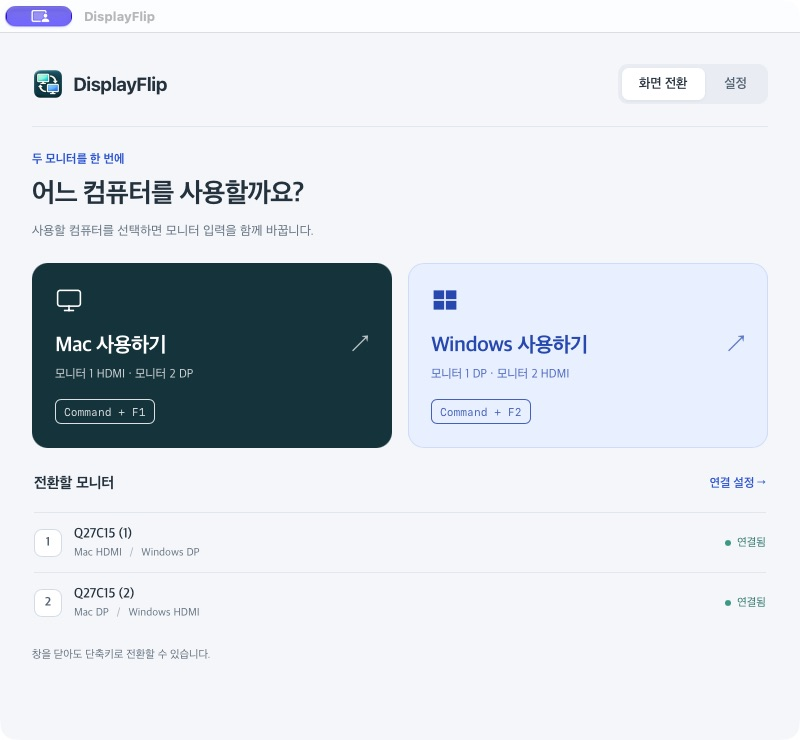
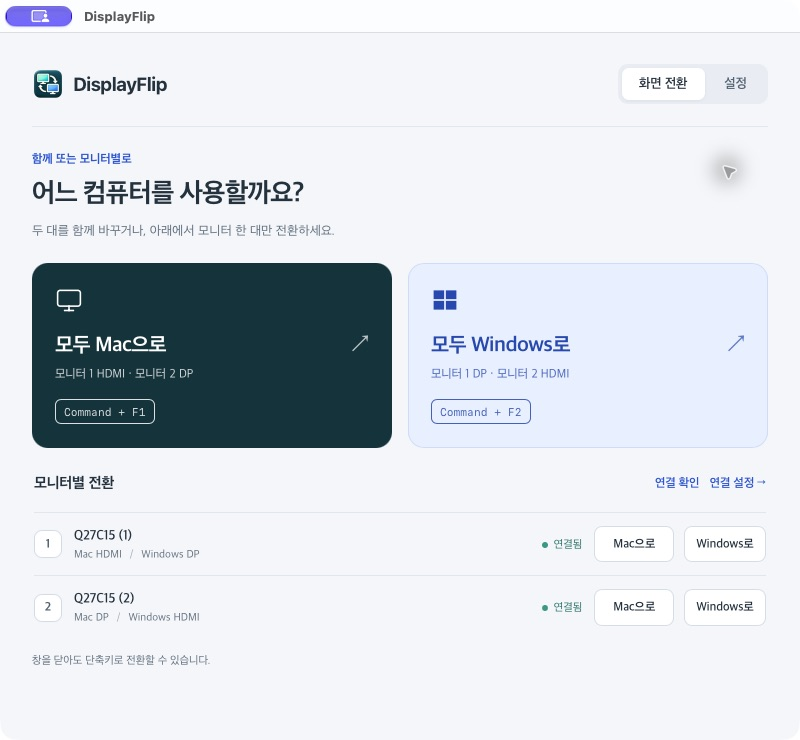
연결된 모니터를 한 대씩 Mac과 Windows로 전환한다

diff --git a/src/App.tsx b/src/App.tsx
@@ -83,6 +83,9 @@ function savedCode(value: number | null): string {
 function App() {
   const [page, setPage] = useState<"switch" | "settings">("switch");
   const [switching, setSwitching] = useState<Destination | null>(null);
+  const [switchingMonitor, setSwitchingMonitor] = useState<MonitorIndex | null>(null);
+  const switchInFlight = useRef(false);
+  const monitorRefreshInFlight = useRef(false);
   const [saving, setSaving] = useState(0);
   const [settings, setSettings] = useState<Settings | null>(null);
   const [appliedSettings, setAppliedSettings] = useState<Settings | null>(null);
@@ -112,16 +115,19 @@ function App() {
     }
   }
 
-  async function refreshMonitors() {
+  async function refreshMonitors(announce = true) {
+    if (monitorRefreshInFlight.current) return;
+    monitorRefreshInFlight.current = true;
     setRefreshingMonitors(true);
     try {
       const detected = await invoke<DetectedMonitor[]>("list_monitors");
       setMonitors(detected);
-      setNotice(detected.length ? `모니터 ${detected.length}대를 찾았습니다.` : "연결된 외부 모니터가 없습니다.");
+      if (announce) setNotice(detected.length ? `모니터 ${detected.length}대를 찾았습니다.` : "연결된 외부 모니터가 없습니다.");
     } catch (error) {
-      setNotice(String(error));
+      if (announce) setNotice(String(error));
     } finally {
       setRefreshingMonitors(false);
+      monitorRefreshInFlight.current = false;
     }
   }
 
@@ -176,15 +182,17 @@ function App() {
     const pauseCapture = () => { void captureShortcuts(false); };
     const resumeCapture = () => {
       if (document.activeElement?.matches("[data-shortcut-input]")) void captureShortcuts(true);
+      void refreshMonitors(false);
     };
     window.addEventListener("blur", pauseCapture);
     window.addEventListener("focus", resumeCapture);
     void invoke<Settings>("get_settings").then((loaded) => { setSettings(loaded); setAppliedSettings(loaded); }).catch((error: unknown) => {
       setNotice(String(error));
     });
-    void invoke<DetectedMonitor[]>("list_monitors").then(setMonitors).catch((error: unknown) => {
-      setNotice(String(error));
-    });
+    void refreshMonitors(false);
+    const monitorTimer = window.setInterval(() => {
+      if (document.visibilityState === "visible" && !switchInFlight.current) void refreshMonitors(false);
+    }, 10000);
     void invoke<string | null>("shortcut_status").then((error) => {
       if (error) setNotice(error);
     });
@@ -195,6 +203,7 @@ function App() {
     return () => {
       window.removeEventListener("blur", pauseCapture);
       window.removeEventListener("focus", resumeCapture);
+      window.clearInterval(monitorTimer);
       void invoke("set_shortcut_capture", { capturing: false }).catch(() => {});
       void unlisten.then((stop) => stop());
     };
@@ -209,16 +218,23 @@ function App() {
     );
   }
 
-  async function switchTo(destination: Destination) {
-    if (switching) return;
+  async function switchTo(destination: Destination, monitor?: MonitorIndex) {
+    if (switchInFlight.current) return;
+    switchInFlight.current = true;
     setSwitching(destination);
+    setSwitchingMonitor(monitor ?? null);
     try {
-      const outcomes = await invoke<Outcome[]>("switch_to", { destination });
+      const outcomes = monitor
+        ? [await invoke<Outcome>("switch_monitor", { destination, monitor: Number(monitor) })]
+        : await invoke<Outcome[]>("switch_to", { destination });
       setNotice(outcomes.map(outcomeText).join("\n"));
     } catch (error) {
       setNotice(String(error));
     } finally {
       setSwitching(null);
+      setSwitchingMonitor(null);
+      switchInFlight.current = false;
+      void refreshMonitors(false);
     }
   }
 
@@ -263,11 +279,12 @@ function App() {
     }
   }
 
-  const destinationReady = (destination: Destination) => (["1", "2"] as const).every((index) => {
+  const monitorReady = (index: MonitorIndex, destination: Destination) => {
     const monitor = role(index);
     const usesHdmi = destination === "mac" ? index === "1" : index === "2";
     return monitor.id && (usesHdmi ? monitor.hdmiCode : monitor.dpCode) !== null && monitors.some((item) => item.id === monitor.id);
-  }) && role("1").id !== role("2").id;
+  };
+  const destinationReady = (destination: Destination) => (["1", "2"] as const).every((index) => monitorReady(index, destination)) && role("1").id !== role("2").id;
   const configured = destinationReady("mac") && destinationReady("windows");
   const monitorName = (index: MonitorIndex) => monitors.find((monitor) => monitor.id === role(index).id)?.name ?? "모니터를 선택해주세요";
   const shortcutLabel = formatShortcut;
@@ -286,24 +303,27 @@ function App() {
       {notice && <div className={`notice ${/실패|못했|못합니다|정수여야|동일|서로 다른/.test(notice) ? "notice-warning" : ""}`} role="status" aria-live="polite"><span className="notice-label">알림</span><p>{notice}</p><button type="button" className="notice-close" aria-label="알림 닫기" onClick={() => setNotice("")}>×</button></div>}
 
       {page === "switch" ? <>
-        <div className="page-heading"><p className="eyebrow">두 모니터를 한 번에</p><h1>어느 컴퓨터를 사용할까요?</h1><p>사용할 컴퓨터를 선택하면 모니터 입력을 함께 바꿉니다.</p></div>
-        {!configured && <div className="setup-prompt"><span>아직 준비되지 않은 연결이 있습니다. 모니터와 각 컴퓨터의 입력을 확인해주세요.</span><button type="button" onClick={() => setPage("settings")}>모니터 설정하기 <span aria-hidden="true">→</span></button></div>}
+        <div className="page-heading"><p className="eyebrow">함께 또는 모니터별로</p><h1>어느 컴퓨터를 사용할까요?</h1><p>두 대를 함께 바꾸거나, 아래에서 모니터 한 대만 전환하세요.</p></div>
+        {!configured && <div className="setup-prompt"><span>두 대를 함께 전환하려면 연결 설정을 확인해주세요. 준비된 모니터는 아래에서 개별 전환할 수 있습니다.</span><button type="button" onClick={() => setPage("settings")}>모니터 설정하기 <span aria-hidden="true">→</span></button></div>}
         <div className="switch-grid">
           {(["mac", "windows"] as const).map((destination) => <button
             className={`switch-card ${destination}`} type="button" key={destination}
-            disabled={!destinationReady(destination) || switching !== null} aria-busy={switching === destination}
+            disabled={!destinationReady(destination) || switching !== null} aria-busy={switching === destination && switchingMonitor === null}
             onClick={() => void switchTo(destination)}>
             <span className="computer-mark">{destination === "mac" ? <MonitorIcon /> : <WindowsIcon />}</span>
-            <span className="switch-card-title">{switching === destination ? "전환 요청 중…" : destination === "mac" ? "Mac 사용하기" : "Windows 사용하기"}<span aria-hidden="true">↗</span></span>
+            <span className="switch-card-title">{switching === destination && switchingMonitor === null ? "전환 요청 중…" : destination === "mac" ? "모두 Mac으로" : "모두 Windows로"}<span aria-hidden="true">↗</span></span>
             <span className="switch-card-detail">모니터 1 {destination === "mac" ? "HDMI" : "DP"}<span aria-hidden="true"> · </span>모니터 2 {destination === "mac" ? "DP" : "HDMI"}</span>
             <span className="shortcut-badge" aria-label={`단축키 ${shortcutLabel(destination === "mac" ? displayedHotkeys.toMac : displayedHotkeys.toWindows)}`}>{shortcutLabel(destination === "mac" ? displayedHotkeys.toMac : displayedHotkeys.toWindows)}</span>
           </button>)}
         </div>
         <section className="monitor-overview" aria-labelledby="monitor-overview-title">
-          <div className="section-heading"><h2 id="monitor-overview-title">전환할 모니터</h2><button className="text-button" type="button" onClick={() => setPage("settings")}>연결 설정 <span aria-hidden="true">→</span></button></div>
+          <div className="section-heading"><h2 id="monitor-overview-title">모니터별 전환</h2><div className="overview-tools"><button className="text-button" type="button" disabled={refreshingMonitors} onClick={() => void refreshMonitors()}>{refreshingMonitors ? "확인 중…" : "연결 확인"}</button><button className="text-button" type="button" onClick={() => setPage("settings")}>연결 설정 <span aria-hidden="true">→</span></button></div></div>
           {(["1", "2"] as const).map((index) => <div className="monitor-summary" key={index}>
-            <span className="monitor-number">{index}</span><div><strong>{role(index).id ? monitorName(index) : "모니터를 선택해주세요"}</strong><span className="monitor-route">Mac {index === "1" ? "HDMI" : "DP"} <span aria-hidden="true">/</span> Windows {index === "1" ? "DP" : "HDMI"}</span></div>
+            <span className="monitor-number">{index}</span><div className="monitor-identity"><strong>{role(index).id ? monitorName(index) : "모니터를 선택해주세요"}</strong><span className="monitor-route">Mac {index === "1" ? "HDMI" : "DP"} <span aria-hidden="true">/</span> Windows {index === "1" ? "DP" : "HDMI"}</span></div>
             <span className={`connection-state ${monitors.some((monitor) => monitor.id === role(index).id) ? "connected" : ""}`}>{!role(index).id ? "설정 필요" : monitors.some((monitor) => monitor.id === role(index).id) ? "연결됨" : "연결 확인 필요"}</span>
+            <div className="individual-actions" role="group" aria-label={`모니터 ${index} 전환`}>
+              {(["mac", "windows"] as const).map((destination) => <button className="secondary-button" type="button" key={destination} disabled={!monitorReady(index, destination) || switching !== null} aria-busy={switchingMonitor === index && switching === destination} aria-label={`모니터 ${index} ${destination === "mac" ? "Mac" : "Windows"}으로 전환`} onClick={() => void switchTo(destination, index)}>{switchingMonitor === index && switching === destination ? "전환 중…" : destination === "mac" ? "Mac으로" : "Windows로"}</button>)}
+            </div>
           </div>)}
         </section>
         <p className="quiet-help">창을 닫아도 단축키로 전환할 수 있습니다.</p>

diff --git a/src/styles.css b/src/styles.css
@@ -46,6 +46,16 @@ h2 { font-size: 15px; font-weight: 650; margin: 0; letter-spacing: -.2px; }
 .text-button { border: 0; background: transparent; color: var(--accent); padding: 6px 0; font-size: 12px; font-weight: 550; }
 .text-button:not(:disabled):hover { color: #143d97; text-decoration: underline; }
 .monitor-summary { display: flex; align-items: center; gap: 12px; padding: 13px 0; border-top: 1px solid var(--line); }
+.monitor-identity { min-width: 0; flex: 1; overflow-wrap: anywhere; }
+.overview-tools, .individual-actions { display: flex; gap: 10px; align-items: center; }
+.individual-actions { flex-shrink: 0; }
+.individual-actions .secondary-button { padding: 9px 11px; min-width: 80px; font-size: 12px; }
+@media (max-width: 620px) {
+  .monitor-summary { flex-wrap: wrap; }
+  .individual-actions { flex-basis: calc(100% - 40px); margin-left: 40px; }
+  .individual-actions .secondary-button { flex: 1; }
+  .section-heading { flex-wrap: wrap; }
+}
 .monitor-number { display: inline-flex; flex-shrink: 0; align-items: center; justify-content: center; width: 28px; height: 28px; border: 1px solid #d3dce6; color: #526373; background: #fff; border-radius: 8px; font-size: 12px; font-weight: 650; }
 .monitor-summary strong { display: block; font-size: 13px; font-weight: 600; }
 .monitor-route { display: block; color: var(--muted); font-size: 11px; margin-top: 4px; }

diff --git a/src-tauri/src/domain.rs b/src-tauri/src/domain.rs
@@ -76,6 +76,7 @@ impl MissingItem {
 pub enum PlanError {
     Incomplete { missing: Vec<MissingItem> },
     SameMonitor,
+    InvalidMonitor,
     Busy,
 }
 
@@ -87,6 +88,7 @@ impl std::fmt::Display for PlanError {
                 write!(f, "설정이 완료되지 않았습니다: {}", labels.join(", "))
             }
             PlanError::SameMonitor => write!(f, "모니터 1과 모니터 2는 서로 다른 모니터여야 합니다."),
+            PlanError::InvalidMonitor => write!(f, "모니터 번호는 1 또는 2여야 합니다."),
             PlanError::Busy => write!(f, "이미 전환 중입니다."),
         }
     }
@@ -212,6 +214,39 @@ pub struct SwitchGate {
 }
 
 impl SwitchGate {
+    pub fn run_monitor<C: MonitorControl + ?Sized>(
+        &mut self,
+        control: &mut C,
+        settings: &Settings,
+        destination: Destination,
+        index: u8,
+        connected_ids: &[String],
+    ) -> Result<MonitorOutcome, PlanError> {
+        if self.busy {
+            return Err(PlanError::Busy);
+        }
+        let (selected, monitor_missing, disconnected) = match index {
+            1 => (&settings.monitors.monitor1, MissingItem::Monitor1, MissingItem::Monitor1Disconnected),
+            2 => (&settings.monitors.monitor2, MissingItem::Monitor2, MissingItem::Monitor2Disconnected),
+            _ => return Err(PlanError::InvalidMonitor),
+        };
+        let selected = selected.as_ref().filter(|monitor| !monitor.id.is_empty())
+            .ok_or_else(|| PlanError::Incomplete { missing: vec![monitor_missing] })?;
+        let mut missing = Vec::new();
+        let code = code_for(selected, destination, index, &mut missing);
+        if !connected_ids.contains(&selected.id) {
+            missing.push(disconnected);
+        }
+        if !missing.is_empty() {
+            return Err(PlanError::Incomplete { missing });
+        }
+        self.busy = true;
+        let guard = BusyGuard(&mut self.busy);
+        let outcome = execute(control, index, &selected.id, code.unwrap());
+        drop(guard);
+        Ok(outcome)
+    }
+
     pub fn run<C: MonitorControl + ?Sized>(
         &mut self,
         control: &mut C,
@@ -461,6 +496,52 @@ mod tests {
         let outcome = gate.trial(&mut fake, "mon-1", 17).unwrap();
         assert_eq!(outcome.role, 0);
         assert!(matches!(outcome.delivery, Delivery::Delivered));
+    }
+
+    #[test]
+    fn individual_switch_only_writes_selected_monitor_without_other_configuration() {
+        let mut settings = ready();
+        settings.monitors.monitor1 = None;
+        settings.monitors.monitor2.as_mut().unwrap().dp_code = None;
+        let mut gate = SwitchGate::default();
+        let mut fake = Fake { fail_set: false, read: ReadMode::Fail, sets: Vec::new() };
+        let outcome = gate.run_monitor(&mut fake, &settings, Destination::Windows, 2, &["mon-2".into()]).unwrap();
+        assert_eq!(fake.sets, vec![("mon-2".into(), 17)]);
+        assert_eq!(outcome.role, 2);
+        assert!(matches!(outcome.delivery, Delivery::Unconfirmed));
+        assert!(!gate.busy);
+    }
+
+    #[test]
+    fn individual_switch_uses_each_monitors_destination_port() {
+        for (index, destination, expected) in [(1, Destination::Mac, 17), (1, Destination::Windows, 15), (2, Destination::Mac, 15), (2, Destination::Windows, 17)] {
+            let mut gate = SwitchGate::default();
+            let mut fake = Fake { fail_set: false, read: ReadMode::Fail, sets: Vec::new() };
+            gate.run_monitor(&mut fake, &ready(), destination, index, &["mon-1".into(), "mon-2".into()]).unwrap();
+            assert_eq!(fake.sets, vec![(format!("mon-{index}"), expected)]);
+        }
+    }
+
+    #[test]
+    fn individual_switch_rejects_missing_disconnected_and_invalid_targets_before_writing() {
+        let mut no_code = ready();
+        no_code.monitors.monitor1.as_mut().unwrap().hdmi_code = None;
+        let mut no_monitor = ready();
+        no_monitor.monitors.monitor1 = None;
+        for (settings, index, connected) in [(no_code, 1, vec!["mon-1".into()]), (no_monitor, 1, vec!["mon-1".into()]), (ready(), 1, vec!["mon-2".into()]), (ready(), 3, vec!["mon-1".into()])] {
+            let mut gate = SwitchGate::default();
+            let mut fake = Fake { fail_set: false, read: ReadMode::Match, sets: Vec::new() };
+            assert!(gate.run_monitor(&mut fake, &settings, Destination::Mac, index, &connected).is_err());
+            assert!(fake.sets.is_empty());
+        }
+    }
+
+    #[test]
+    fn individual_switch_shares_busy_guard_with_all_monitor_switches() {
+        let mut gate = SwitchGate { busy: true };
+        let mut fake = Fake { fail_set: false, read: ReadMode::Match, sets: Vec::new() };
+        assert!(matches!(gate.run_monitor(&mut fake, &ready(), Destination::Mac, 1, &["mon-1".into()]), Err(PlanError::Busy)));
+        assert!(fake.sets.is_empty());
     }
 
     #[test]

diff --git a/src-tauri/src/lib.rs b/src-tauri/src/lib.rs
@@ -95,6 +95,16 @@ fn switch_to(state: tauri::State<AppState>, destination: domain::Destination) ->
 }
 
 #[tauri::command]
+fn switch_monitor(state: tauri::State<AppState>, destination: domain::Destination, monitor: u8) -> Result<domain::MonitorOutcome, String> {
+    let mut gate = state.gate.try_lock().map_err(|_| domain::PlanError::Busy.to_string())?;
+    let path = require_settings_path(&state.settings_path)?;
+    let settings = settings::load_settings(path)?;
+    let mut control = control::open_control();
+    let connected = control.list_monitors()?.into_iter().map(|item| item.id).collect::<Vec<_>>();
+    gate.run_monitor(&mut *control, &settings, destination, monitor, &connected).map_err(|err| err.to_string())
+}
+
+#[tauri::command]
 fn shortcut_status(state: tauri::State<AppState>) -> Option<String> {
     stored_notice(state.inner())
 }
@@ -468,6 +478,7 @@ pub fn run() {
             read_input,
             trial_set_input,
             switch_to,
+            switch_monitor,
             shortcut_status,
             set_shortcut_capture
         ])
